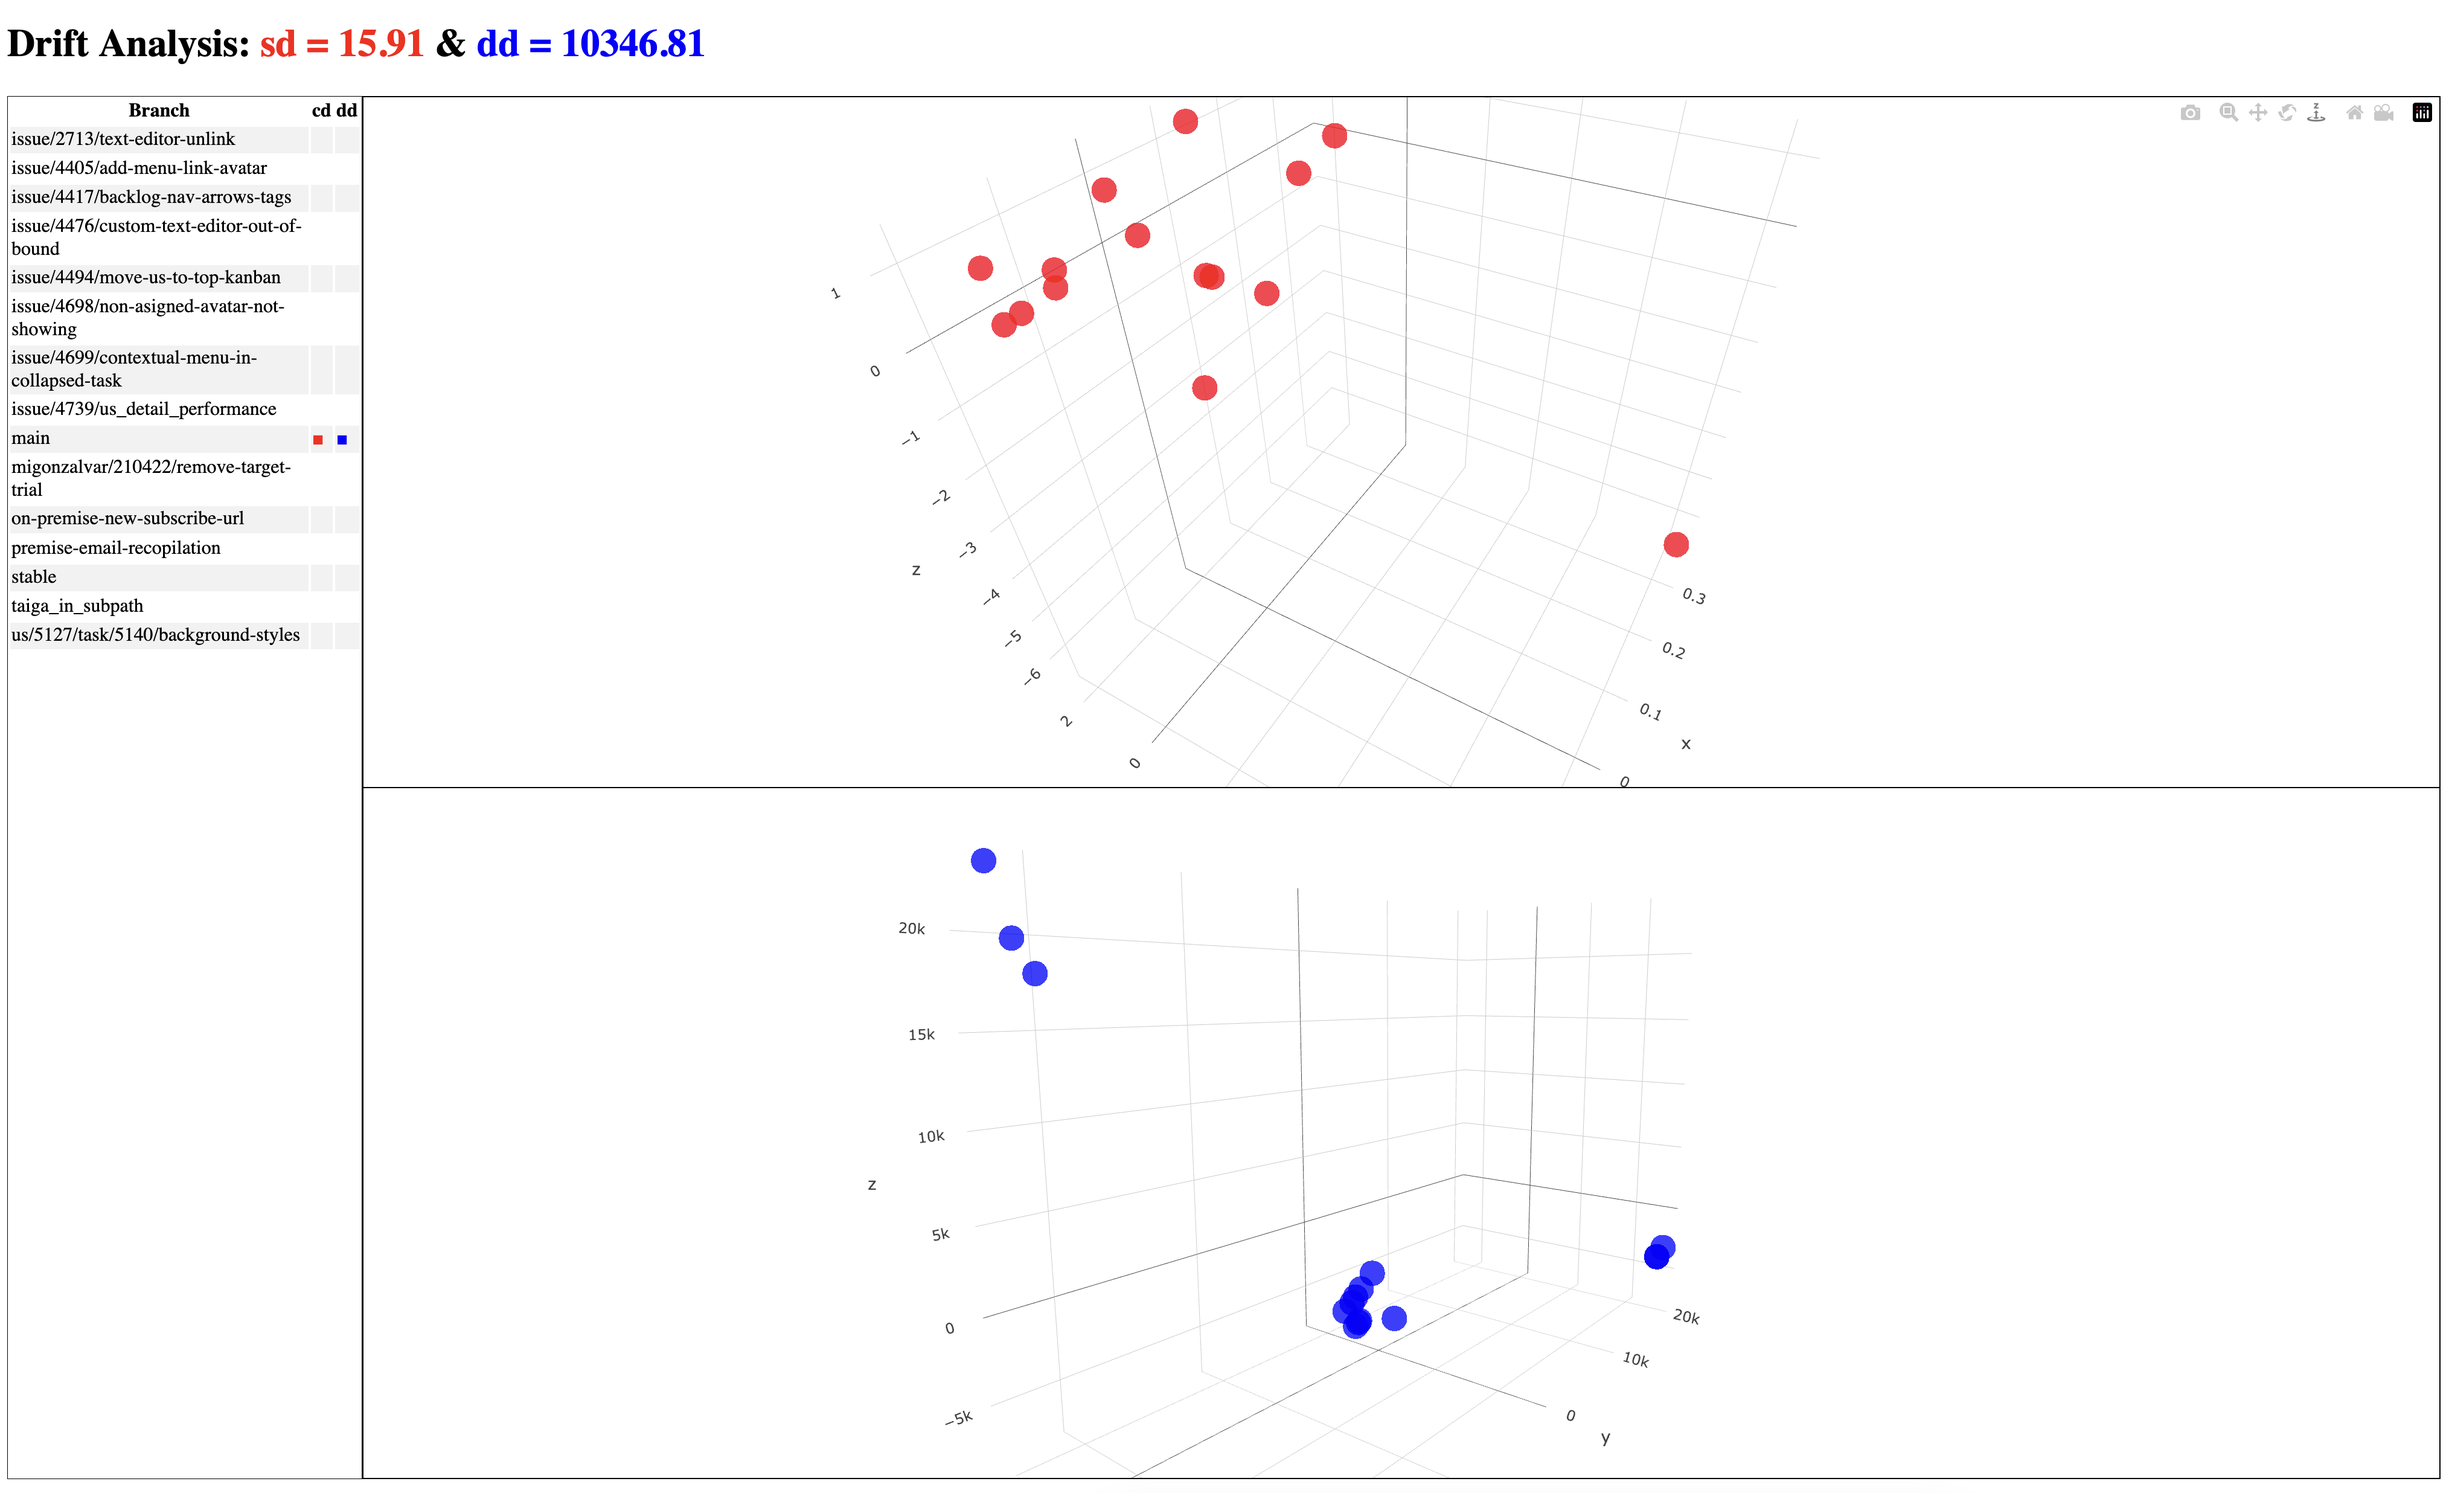
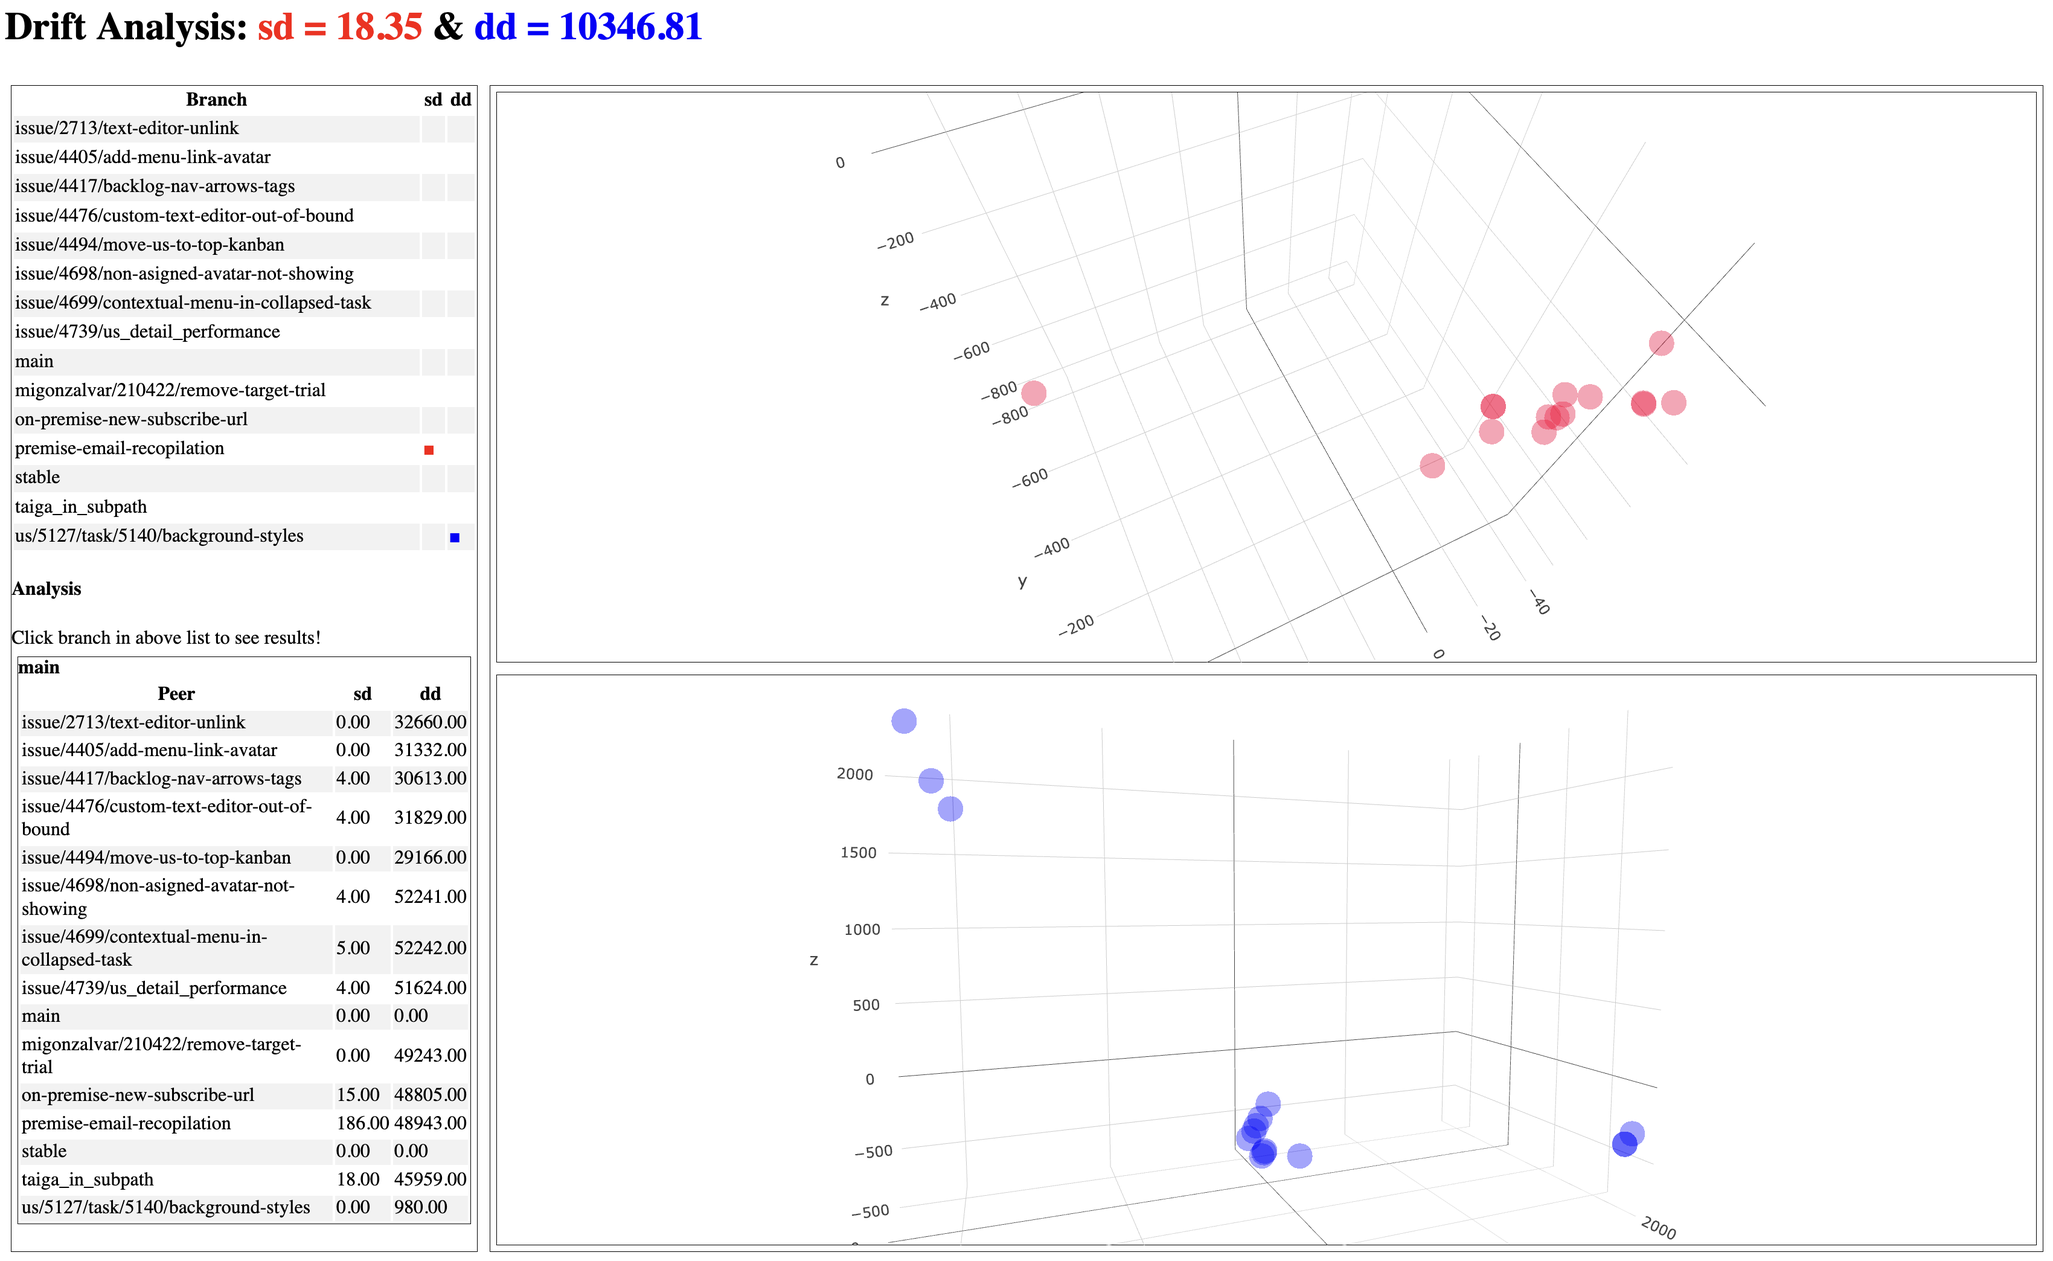
Improve render template and doc

diff --git a/resources/report.template.html b/resources/report.template.html
@@ -27,9 +27,13 @@
             border-style: solid;
             border-color: black;
             border-width: 0.5pt;
+            margin: 5px;
         }
         .hidden{
             visibility: hidden;
+        }
+        .gone{
+            display: none;
         }
         .container {
             display: flex;
@@ -45,13 +49,16 @@
             flex-grow: 2;
         }
         .half-vp{
-            height: 45vh;
+            height: 43vh;
         }
         .blue-font{
             color: blue;
         }
         .red-font{
             color: red;
+        }
+        .w30{
+            width: 30%;
         }
     
         tr:nth-child(even) {background-color: #f2f2f2;}
@@ -60,32 +67,61 @@
 
 </head>
 
+<script>
+    var active_elem = undefined
+
+    function show_env(branch_name){
+        if(active_elem){
+            active_elem.style.display = 'none';
+            active_elem = undefined;
+        }
+        active_elem = document.getElementById('env-'+branch_name)
+        active_elem.style.display = 'block'
+    }
+</script>
+
 <body>
     <h1>Drift Analysis: <span class="red-font">sd = ${sd}</span> & <span class="blue-font">dd = ${dd}</span> </h1>
     <div class="container horizontal">
-        <div class="bordered">
-            <div class="container vertical">
+            <div class="container vertical bordered w30">
                 <table id="branch-table">
                     <tr>
                         <th>Branch</th>
-                        <th>cd</th>
+                        <th>sd</th>
                         <th>dd</th>
                     </tr>
                         % for a in branch_array:
                         <tr>
-                            <td>${a}</td>
+                            <td><span onclick="show_env('${a}')">${a}</span></td>
                             <td><span id="marker-sd-${loop.index}" class="red-font hidden">&#x25A0;</span></td>
                             <td><span id="marker-dd-${loop.index}" class="blue-font hidden">&#x25A0;</span></td>
                         </tr>
                         % endfor
                 </table>
+                <h3>Analysis</h3>
+                Click branch in above list to see results!
                 <div>
-                    Distances:
-                    
+                    % for branch_env in branch_distances:
+                    <div id="env-${branch_env.branch}" class="gone bordered">
+                        <strong>${branch_env.branch}</strong>
+                        <table>
+                            <tr>
+                                <th>Peer</th>
+                                <th>sd</th>
+                                <th>dd</th>
+                            </tr>
+                            % for peer in branch_env.distances:
+                                <tr>
+                                    <td>${peer.peer_branch}</td>
+                                    <td>${peer.sd}</td>
+                                    <td>${peer.dd}</td>
+                                </tr>
+                            % endfor
+                        </table>
+                    </div>
+                    % endfor
                 </div>
             </div>
-        </div>
-       
             <div class="container grow vertical bordered">
                 <div id='conflict-div' class='bordered half-vp'><!-- Plotly chart will be drawn inside this DIV --></div>
                 <div id='difference-div' class='bordered half-vp'><!-- Plotly chart will be drawn inside this DIV --></div>

diff --git a/lib/webview/render/renderer.py b/lib/webview/render/renderer.py
@@ -18,6 +18,29 @@ from io import StringIO
 import json
 
 from lib.data.measured_environment import MeasuredEnvironment
+from lib.data.distance import BranchDistance, BranchEnvironment
+
+
+def generate_branch_distance_map(me: MeasuredEnvironment) -> list[BranchEnvironment]:
+    
+    res: list[BranchEnvironment] = list()
+
+    for base in range(len(me.branches)):
+        
+        base_branch = me.branches[base]
+        distances: list[BranchDistance] = list()
+
+        for peer in range(len(me.branches)):
+            peer_branch = me.branches[peer]
+            sd = me.line_matrix[base, peer]
+            dd = me.diff_matrix[base, peer]
+            distances.append(BranchDistance(peer_branch, sd, dd))
+
+        res.append(BranchEnvironment(base_branch, distances))
+
+    return res
+
+
 
 def render_html(me: MeasuredEnvironment):
     mytemplate = Template(filename='resources/report.template.html')
@@ -28,6 +51,8 @@ def render_html(me: MeasuredEnvironment):
     sd_embeddings = (me.embedding_lines * 10).astype(int)
     dd_embeddings = (me.embedding_differences / 10).astype(int)
 
+    branch_wise_distances = generate_branch_distance_map(me)
+
     ctx = Context(buf, 
                   sd=str("%.2f" % me.sd), 
                   dd=str("%.2f" % me.dd), 
@@ -35,6 +60,7 @@ def render_html(me: MeasuredEnvironment):
                   number_branches=len(me.branches),
                   sd_embeddings=json.dumps(sd_embeddings.tolist()),
                   dd_embeddings=json.dumps(dd_embeddings.tolist()),
+                  branch_distances=branch_wise_distances,
                   full_json_dump=me.serialize())
     mytemplate.render_context(ctx)
     result = buf.getvalue()

diff --git a/lib/data/distance.py b/lib/data/distance.py
@@ -1,0 +1,52 @@
+#  Copyright 2023 Karl Kegel
+#
+#  Licensed under the Apache License, Version 2.0 (the "License");
+#  you may not use this file except in compliance with the License.
+#  You may obtain a copy of the License at
+#
+#  http://www.apache.org/licenses/LICENSE-2.0
+#
+#  Unless required by applicable law or agreed to in writing, software
+#  distributed under the License is distributed on an "AS IS" BASIS,
+#  WITHOUT WARRANTIES OR CONDITIONS OF ANY KIND, either express or implied.
+#  See the License for the specific language governing permissions and
+#  limitations under the License.
+
+import json
+
+class BranchDistance:
+
+    peer_branch: str = None
+    sd: str = None
+    dd: str = None
+
+    def __init__(self, peer_branch: str, sd: float, dd: float) -> None:
+        self.peer_branch = peer_branch
+        self.sd = str("%.2f" % sd)
+        self.dd = str("%.2f" % dd)
+
+    def serialize(self) -> str:
+        obj = {
+            "peer_branch": self.peer_branch,
+            "sd": self.sd,
+            "dd": self.dd,
+            }
+        return json.dumps(obj, indent=4)
+
+
+
+class BranchEnvironment:
+
+    branch: str = None
+    distances: list[BranchDistance] = None
+
+    def __init__(self, branch: str, distances: list[BranchDistance]) -> None:
+        self.branch = branch
+        self.distances = distances
+
+    def serialize(self) -> str:
+        obj = {
+            "branch": self.branch,
+            "distances": list(map(lambda p: p.serialize(), self.distances))
+            }
+        return json.dumps(obj, indent=4)

diff --git a/lib/analysis/repository_handler.py b/lib/analysis/repository_handler.py
@@ -51,9 +51,12 @@ class RepositoryHandler:
 
 
     def clear_reference_tmp(self):
-        os.access(self._reference_tmp_path, stat.S_IWUSR)
-        rmtree(self._reference_tmp_path)
-        self._reference_tmp_path = None
+        try:
+            os.access(self._reference_tmp_path, stat.S_IWUSR)
+            rmtree(self._reference_tmp_path)
+            self._reference_tmp_path = None
+        except:
+            print("DELETE TMP/ FILE MANUALLY!")
 
 
     def create_working_tmp(self):
@@ -69,10 +72,14 @@ class RepositoryHandler:
 
 
     def clear_working_tmp(self):
-        os.access(self._working_tmp_path, stat.S_IWUSR)
-        rmtree(self._working_tmp_path)
-        self._working_tmp_path = None
-        self.head = None
+        try:
+            os.access(self._working_tmp_path, stat.S_IWUSR)
+            rmtree(self._working_tmp_path)
+            self._working_tmp_path = None
+            self.head = None
+        except:
+            print("DELETE TMP/ FILE MANUALLY!")
+
 
 
     def materialize_all_branches_in_reference(self) -> list[str]:

diff --git a/README.md b/README.md
@@ -5,11 +5,22 @@ The base measure is the standard deviation of diffs and merge conflicts in betwe
 
 The results of driftool indicate how well or poorly a repository is managed. High drift indicates large differences between branches. The drift is an absolute metric that always must stand in the context of the repository size. A repository with dozens of collaborateurs and branches naturally has more drift as a project with 3 developers working on. However, the evolution of the drift over time gives useful insigts about the project health.
 
+## Key Metrics
+
+The driftool calculates the *Drift* for two difference measures.
+
+* **sd** is the *Statement Drift* := the standard deviation of conflicting lines during merge
+* **dd** is the *Difference Drift* := the standard deviation of the size of the git diff
+
+In general, higher numbers indicate a more complex repository management.
+
 ## Report Generation
 
 The driftool generates HTML reports for further human analysis. The following figure shows such an analysis. The right side list displays all analysed branches. The top-right graph shows the drift based on (merge-)conflicting lines. The bottom-right graph shows the drift based on pure differences. Both graphs are interactive 3D visualizations.
 
 ![Driftool results screenshot](./doc/screenshot_result_example.png)
+
+The scatterplots use a synthetic coordinate system resulting from multidimensional scaling of the pairwise distance measures. However, Point distribution is helpful for repository analysis. Evenly scattered points indicate many unrelated but conflicting changes. Clusters indicate groups of very compatible branches. Outliers indicate standalone branches with lots of differences compared to the majority.
 
 ## Usage
 
@@ -22,6 +33,8 @@ It is preferred to use the existing ``requirements.txt`` to create a virtualenv.
 Please see the official [virtualenv documentation](https://packaging.python.org/en/latest/guides/installing-using-pip-and-virtual-environments/#install-packages-in-a-virtual-environment-using-pip-and-venv).
 
 > :bulb: Note that for large repositories, the drift calculation can take some time. The number of comparison rounds grows ``fac(number of branches)``. Each comparison round is linearly dependent on the repository size.
+
+> :bulb: Driftool is not sufficiently tested on Windows. A known Windows issue is the possible inability to delete temporary files due to the git file lock. After using the driftool on Windows, please remove the ./tmp folder in the working directory manually.
 
 ### CLI
 
@@ -43,6 +56,8 @@ All processing steps are performed on a temporary local copy of the git reposito
 * ``-b`` | ``--branch_ignore=`` STRING (optional) a list of regualar expressions (python style). Branch names matching at least one of the expressions are ignored. For example, ignore numbered release branches. The regexs must be concatenated to a single string seperated by ``::``. :ambulance: Not fully supported yet!
 * ``-g`` | ``--file_ignore=`` BOOLEAN (optional) files to be ignored during comparison given as .gitignore entries seperated by ``::``. Binaries or large autogenerated files should be ignored during analysis, e.g., ``*.pdf``, ``package-lock.json`` or ``gradle-wrapper/``. :ambulance: Not supported yet!
 * ``-x`` | ``--open_socket=`` INT (optional) opens an (unsecured) websocket server on the given port that forwards the analysis progress to each consumer. :ambulance: Not supported yet!
+
+> :bulb: On Windows, use the driftool only via the Powershell and use Unix-style path encodings.
 
 **Example**
 
